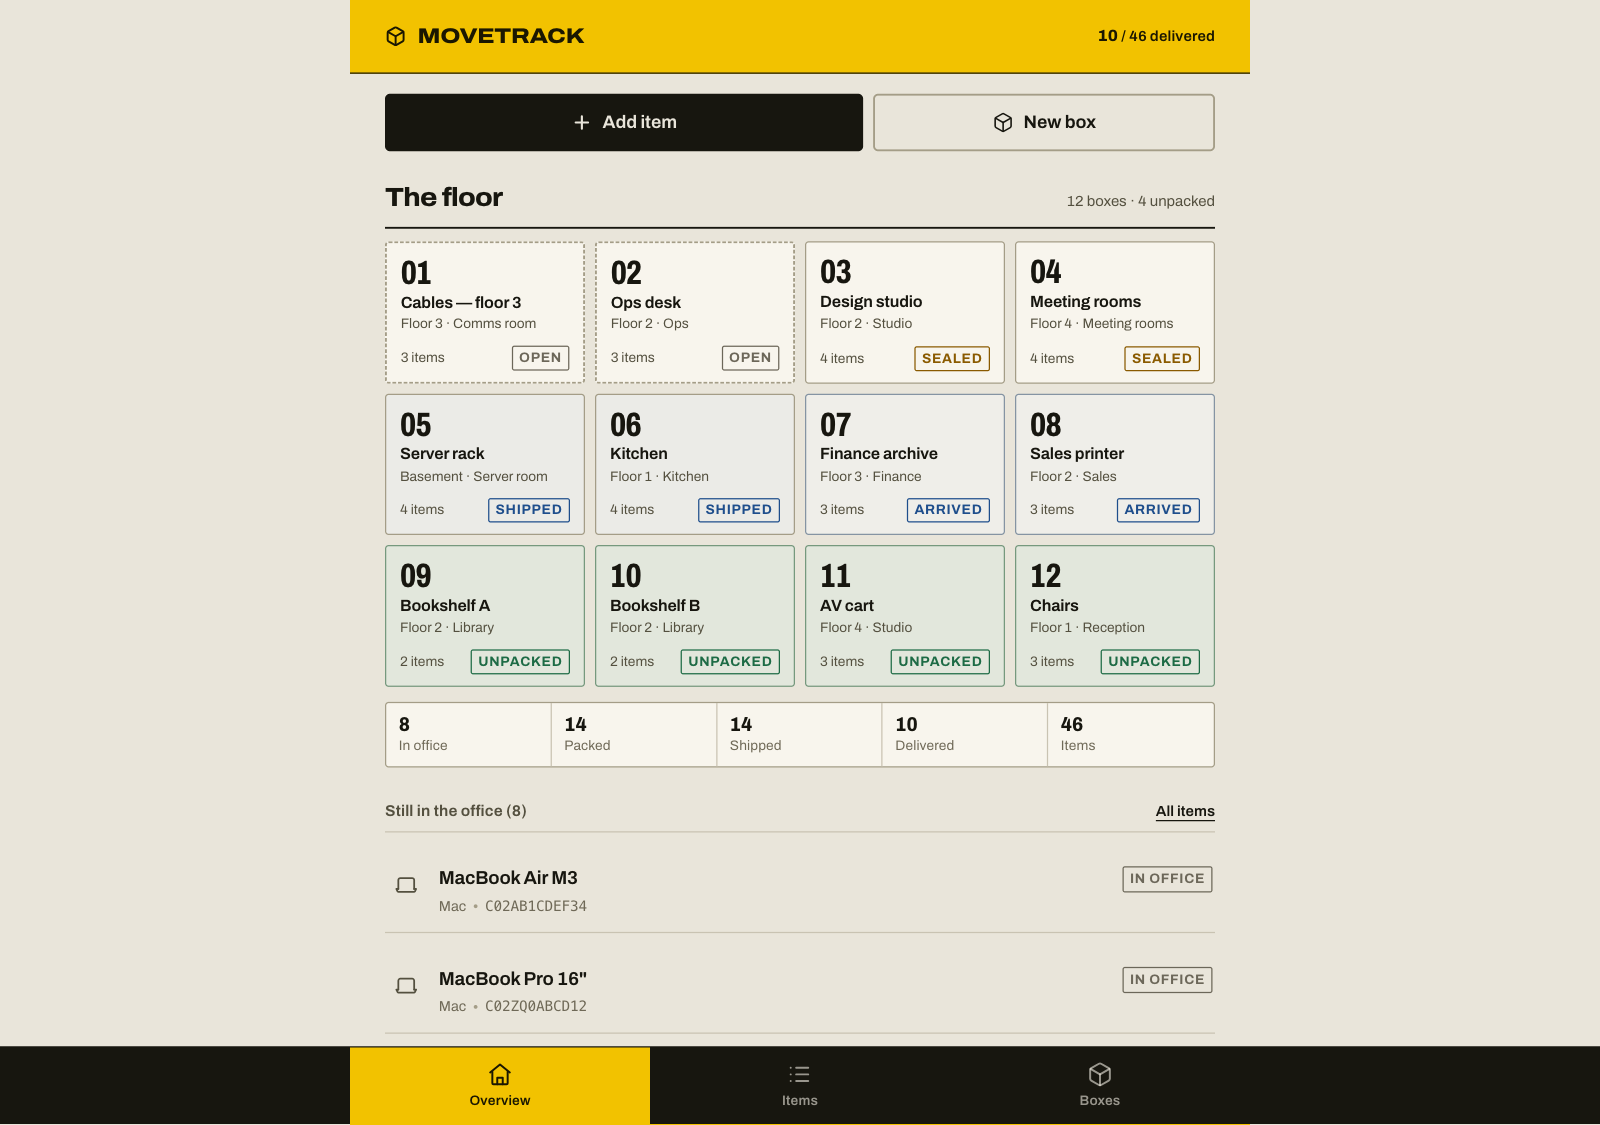
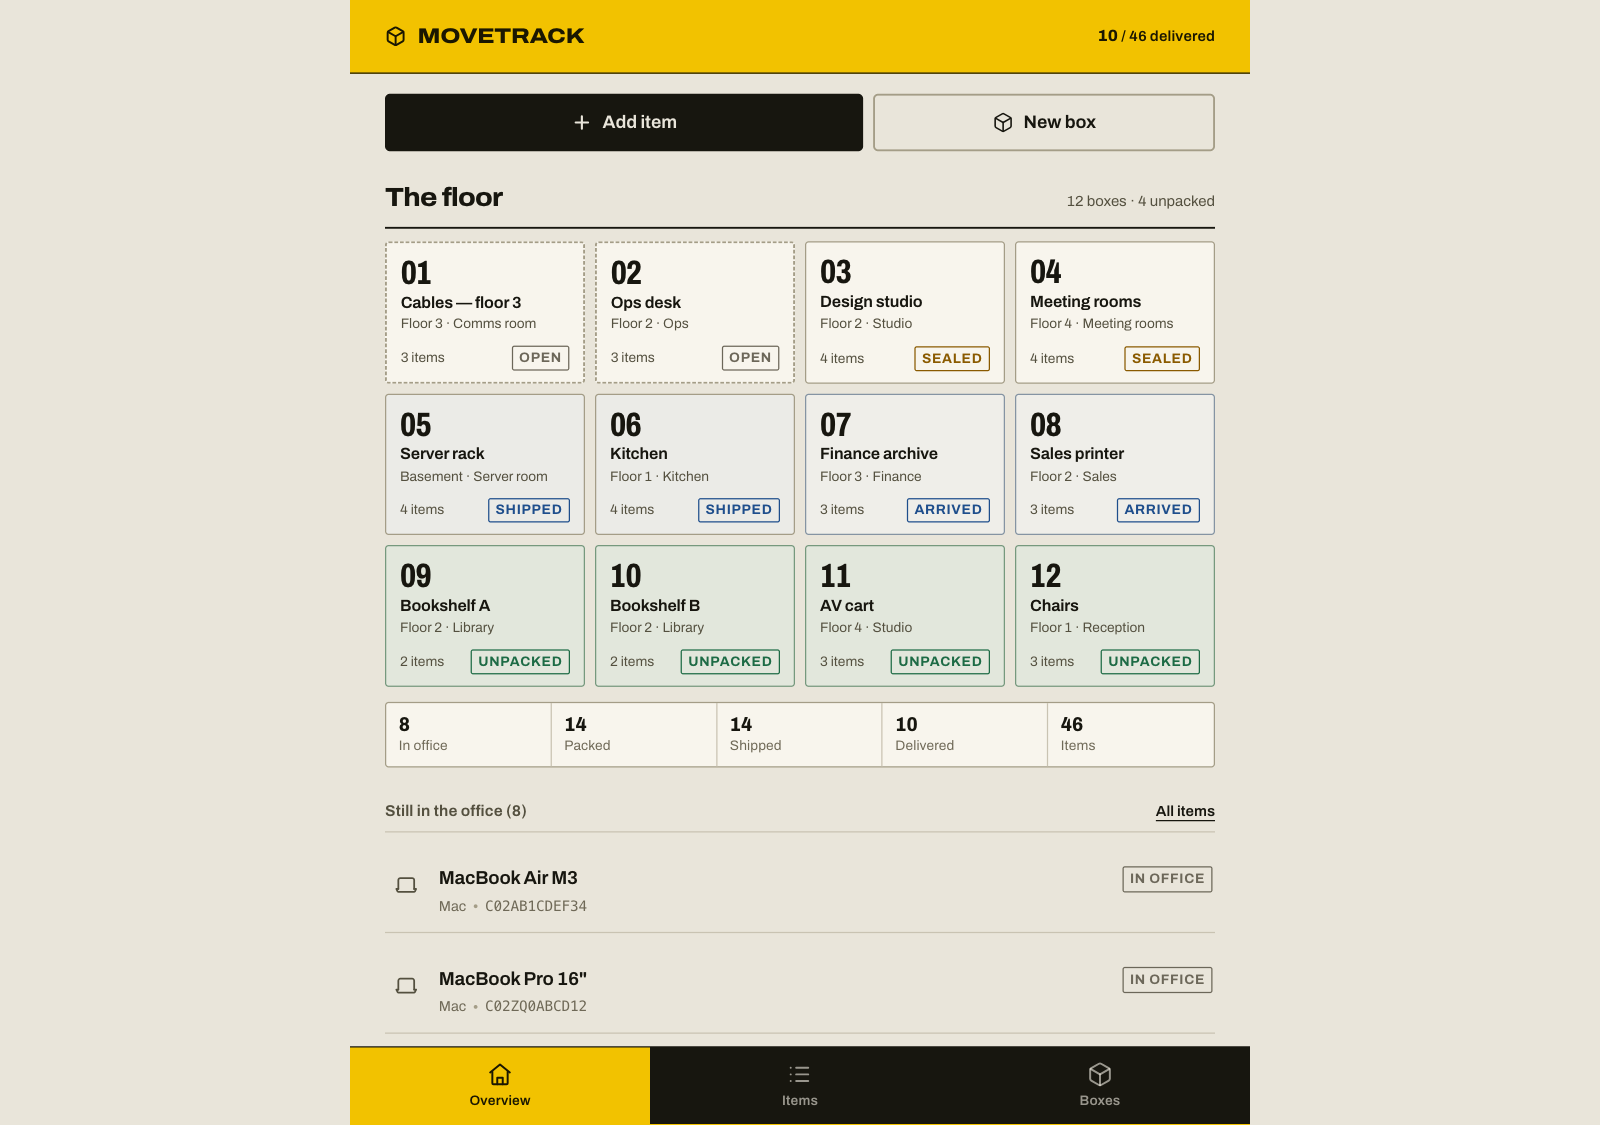
fix(ui): one 720 px rail for header and nav; rebuild the screenshot set
- Bottom navigation was full-bleed on desktop while the brand bar and content
  were 720 px centered; both now share the same rail.
- Label sheet renders two-up on screen, matching the printed A4 layout instead
  of eight oversized cards.
- README gallery rebuilt as two aligned rows of three phone captures; print
  and desktop figures stand alone at one width. Every phone image is 488x1055
  from the same build and theme.

Changed region(s): [[0.7812, 0.9022, 1.0, 1.0], [0.0, 0.9022, 0.2188, 1.0]]

diff --git a/client/src/theme.css b/client/src/theme.css
@@ -406,6 +406,8 @@ a {
   left: 0;
   right: 0;
   bottom: 0;
+  margin: 0 auto;
+  max-width: 720px;
   z-index: 40;
   background: var(--ink);
   color: var(--paper);
@@ -1400,14 +1402,14 @@ a {
 
 .labels {
   display: grid;
-  grid-template-columns: repeat(auto-fill, minmax(280px, 1fr));
-  gap: 10px;
+  grid-template-columns: 1fr 1fr;
+  gap: 8px;
 }
 
 .label {
   display: flex;
   flex-direction: column;
-  min-height: 150px;
+  min-height: 128px;
   background: var(--surface);
   border: 1px solid var(--ink);
   border-radius: 3px;
@@ -1417,13 +1419,13 @@ a {
 .label__brand {
   display: flex;
   align-items: center;
-  gap: 6px;
-  padding: 6px 11px;
+  gap: 5px;
+  padding: 4px 8px;
   background: var(--hazard);
   color: var(--hazard-ink);
-  font-size: 9.5px;
+  font-size: 10px;
   font-weight: 800;
-  letter-spacing: 0.14em;
+  letter-spacing: 0.1em;
   text-transform: uppercase;
   border-bottom: 1px solid var(--ink);
 }
@@ -1433,24 +1435,27 @@ a {
 }
 
 .label__title {
-  padding: 12px 11px 0;
-  font-size: 24px;
+  padding: 9px 8px 0;
+  font-size: 16px;
   font-weight: 780;
-  font-stretch: 90%;
+  font-stretch: 92%;
   line-height: 1.05;
   letter-spacing: -0.02em;
   overflow-wrap: anywhere;
 }
 
 .label__dest {
-  padding: 4px 11px 0;
-  font-size: 13px;
+  padding: 3px 8px 0;
+  font-size: 11px;
   color: var(--ink-2);
+  white-space: nowrap;
+  overflow: hidden;
+  text-overflow: ellipsis;
 }
 
 .label__meta {
   margin-top: auto;
-  padding: 10px 11px;
+  padding: 7px 8px;
   border-top: 1px dashed var(--line-strong);
   font-size: 11px;
   color: var(--muted);

diff --git a/README.md b/README.md
@@ -9,15 +9,15 @@ arrival and unpacking — one tap per step, no accounts, no cloud, no monthly fe
 [![Node](https://img.shields.io/badge/node-%E2%89%A522.13-0c0f14.svg)](https://nodejs.org)
 
 <p align="center">
-  <img src="docs/screenshots/home-phone.png" width="23%" alt="The floor board: every box as a numbered tile with its status">
-  <img src="docs/screenshots/items-phone.png" width="23%" alt="Every item, searchable and filterable by status">
-  <img src="docs/screenshots/boxes-phone.png" width="23%" alt="Boxes in move order, with destinations and states">
-  <img src="docs/screenshots/labels-phone.png" width="23%" alt="Printable 90 × 60 mm box labels">
+  <img src="docs/screenshots/home-phone.png" width="32%" alt="The floor board: every box as a numbered tile with its status">
+  <img src="docs/screenshots/items-phone.png" width="32%" alt="Every item, searchable and filterable by status">
+  <img src="docs/screenshots/boxes-phone.png" width="32%" alt="Boxes in move order, with destinations and states">
 </p>
 
 <p align="center">
-  <img src="docs/screenshots/labels-print.png" width="62%" alt="Print layout: eight 90 × 60 mm labels on two columns">
-  <img src="docs/screenshots/home-dark.png" width="23%" alt="The same floor board in the dark theme">
+  <img src="docs/screenshots/labels-phone.png" width="32%" alt="The label sheet: eight 90 × 60 mm tickets, two-up">
+  <img src="docs/screenshots/sheet-phone.png" width="32%" alt="Packing an item: pick an open box or create one">
+  <img src="docs/screenshots/home-dark.png" width="32%" alt="The same floor board in the dark theme">
 </p>
 
 ## Why this exists
@@ -52,6 +52,10 @@ There is no hero metric, no stat-card grid and no gradient progress bar.
 The system is recorded in [`docs/DESIGN.md`](docs/DESIGN.md) and the product brief in
 [`PRODUCT.md`](PRODUCT.md). It is checked mechanically: `npx impeccable detect` reports
 **0 findings** on both the rendered app and `client/src`.
+
+<p align="center">
+  <img src="docs/screenshots/home-desktop.png" width="100%" alt="The same surface at 1280 px: header and navigation share one 720 px rail">
+</p>
 
 ## Quick start
 
@@ -108,6 +112,10 @@ Carried something by hand? **Mark delivered** on the item directly. Made a mista
 **Boxes → Labels** renders one 90 × 60 mm label per active box with its destination, item
 count and box number. Print, tape, done. Unpacked boxes are excluded from the batch; open a
 single box and use the printer icon in its header to reprint just that label.
+
+<p align="center">
+  <img src="docs/screenshots/labels-print.png" width="70%" alt="Print output: eight 90 × 60 mm labels, black on white, two columns">
+</p>
 
 ## Export and backup
 
